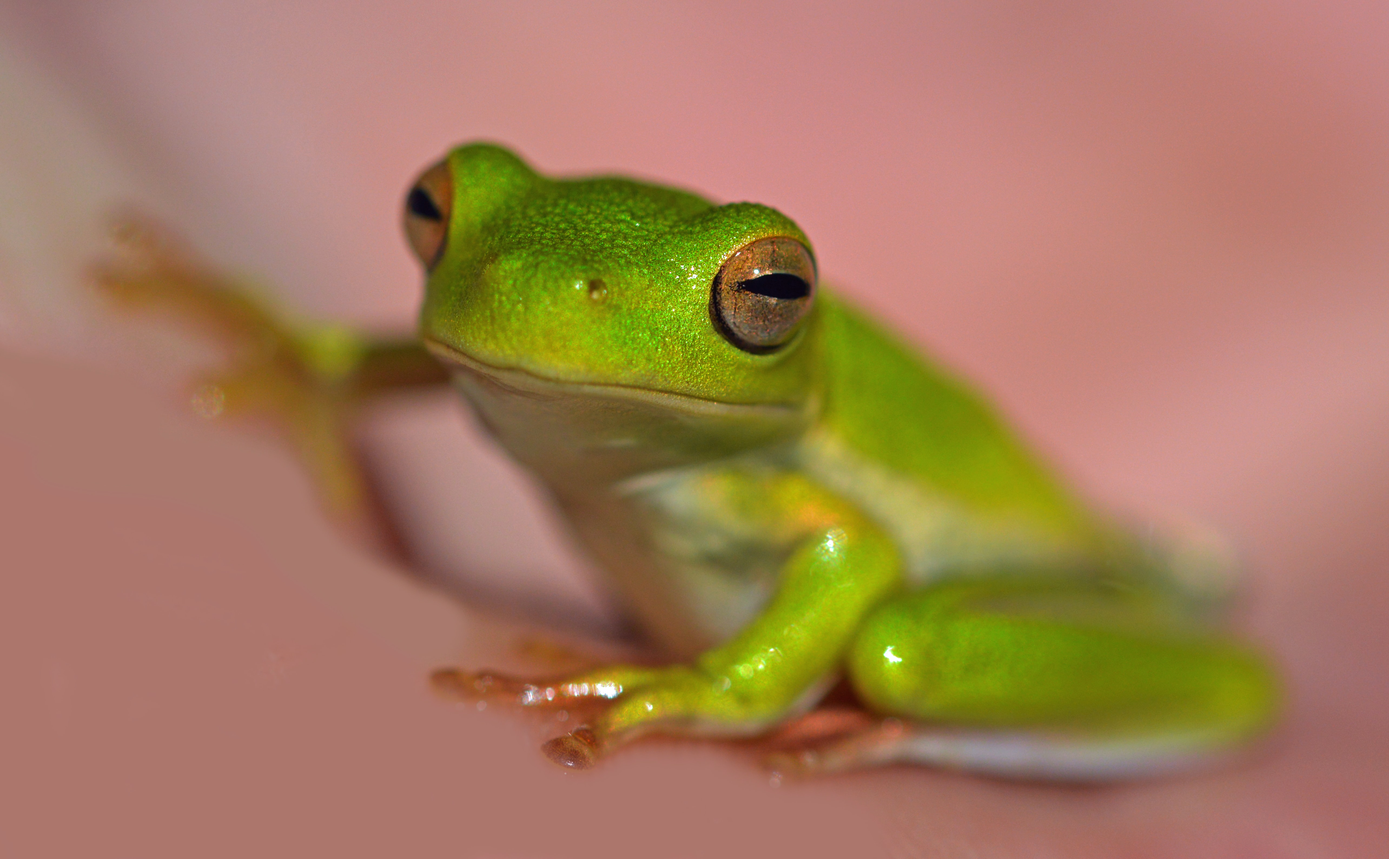
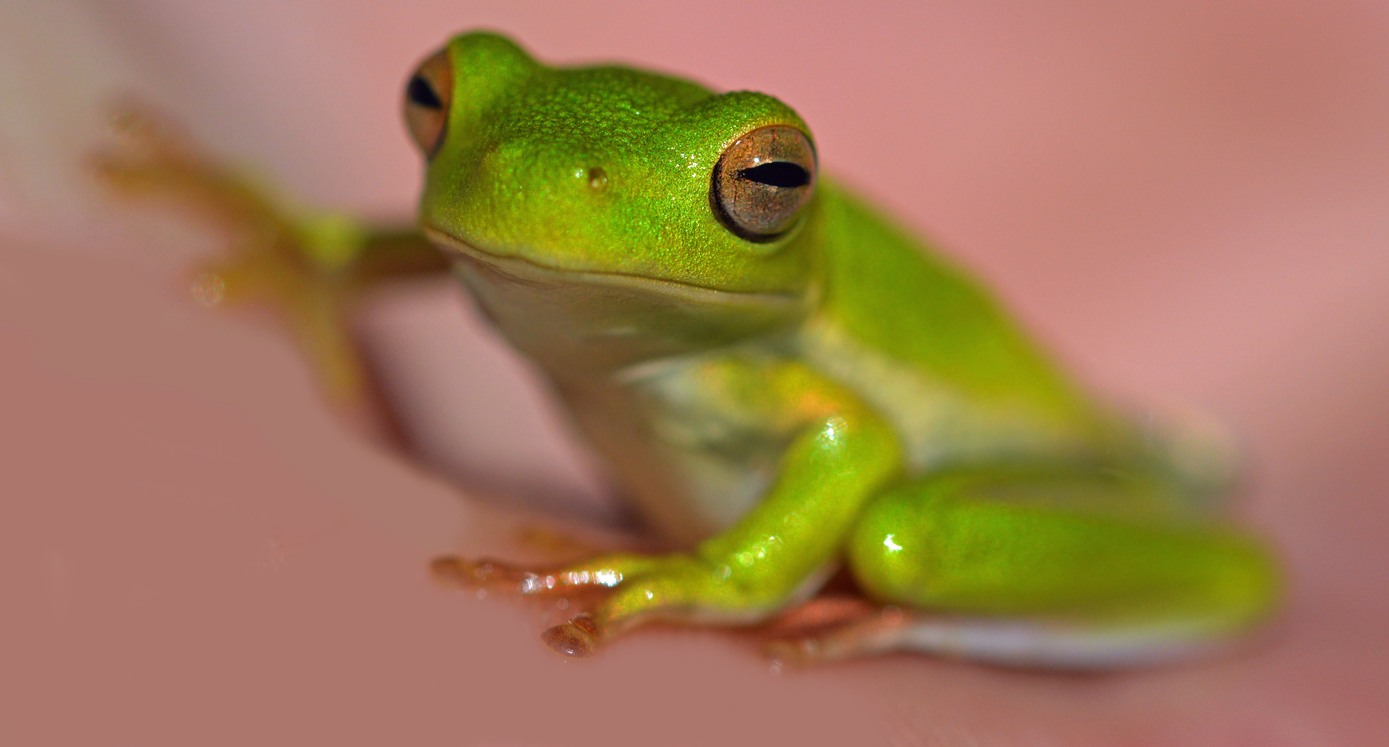
The Cult HTML & CSS Finished

diff --git a/thecult.html b/thecult.html
@@ -4,7 +4,7 @@
             <meta charset="UTF-8">
             <meta http-equiv="X-UA-Compatible" content="IE=edge">
             <meta name="viewport" content="width=device-width, initial-scale=1.0">
-            <title>The Frog Cult &ThinSpace; — &ThinSpace; Memes</title>
+            <title>The Frog Cult &ThinSpace; — &ThinSpace; The Cult</title>
             <link rel="stylesheet" href="style.css">
             <link rel="shortcut icon" href="Images/Icons/TheFrogCult_Favicon.svg" type="image/x-icon">
       </head>
@@ -37,8 +37,8 @@
 
             <header class="thecult-header">
                   <h1 class="main-header">THE CULT</h1>
-                  <h2 class="description-header">Welcome to "The Frog Cult". In this section you can practice the doctrines of the cult.</h2>
-
+                  <h2 class="description-header">Welcome to "The Frog Cult". In this section you can practice the doctrines of the cult. The Frog Cult provides high quality doctrines about many area.</h2>
+                  <h2 class="description-header">Also you can read the stories of the cult.</h2>
             </header>
 
             <main class="index-main">
@@ -46,6 +46,23 @@
                         <div class="music-card-div">
                               <img id="music-player-img" width="30" src="Images/Icons/TheFrogCult_StartIcon.svg" alt="Start Icon">
                         </div>
+                  </div>
+
+                  <div class="stories-practices-cards-div">
+
+                        <a href="#" class="story-practice-card-div">
+                              <div>
+                                    <img height="120" src="Images/Icons/TheFrogCult_PracticesIcon.svg" alt="Tea Icon">
+                                    <h3>The Frog Cult Practices</h3>
+                              </div>
+                        </a>
+
+                        <a href="#" class="story-practice-card-div">
+                              <div>
+                                    <img height="120" src="Images/Icons/TheFrogCult_StoriesIcon.svg" alt="Wizard Hat Icon">
+                                    <h3>The Frog Cult Stories</h3>
+                              </div>
+                        </a>
                   </div>
             </main>
 

diff --git a/style.css b/style.css
@@ -216,7 +216,7 @@ body {
       flex-direction: column;
       width: 100%;
       background-image: url(Images/HeaderPhotos/TheFrogCult_GreenPinkFrogHeader.jpg);
-      background-position: center;
+      background-position: top;     
       background-size: cover;
       background-repeat: no-repeat;
       padding: 5%;
@@ -254,6 +254,41 @@ body {
 .description-header {
       color: white;
       font-size: 2rem;
+      margin: 20px;
+}
+
+.stories-practices-cards-div {
+      display: flex;
+      justify-content: center;
+      align-items: center;
+}
+
+.story-practice-card-div {
+      transition: all ease 0.3s;
+      width: 40%;
+      background-color: rgba(0, 0, 0, 0.4);
+      text-align: center;
+      display: flex;
+      justify-content: center;
+      align-items: center;
+      flex-direction: column;
+      margin: 20px;
+      padding: 30px;
+      color: white;
+      border-radius: 20px;
+      box-shadow: 4px 4px 10px 4px rgba(0, 0, 0, 0.5);
+      text-decoration: none;
+      font-weight: bold;
+      font-size: 1.2rem;
+}
+
+.story-practice-card-div:hover {
+      transition: all ease 0.3s;
+      transform: scale(1.03);
+      box-shadow: 3px 3px 7px 3px rgba(0, 0, 0, 0.65);
+}
+
+.stories-practices-cards-div .story-practice-card-div h3 {
       margin: 20px;
 }
 
